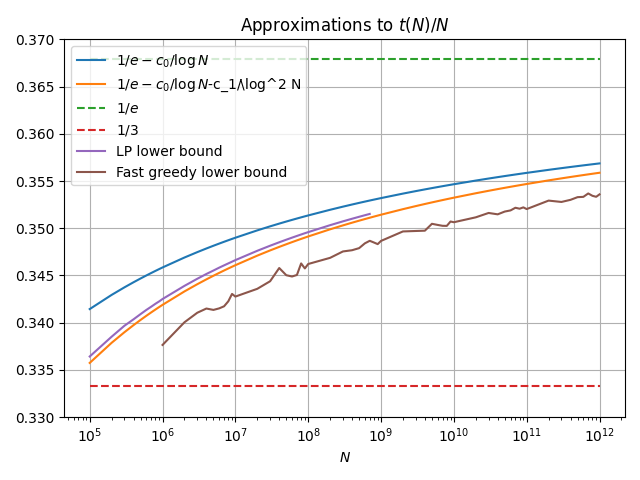
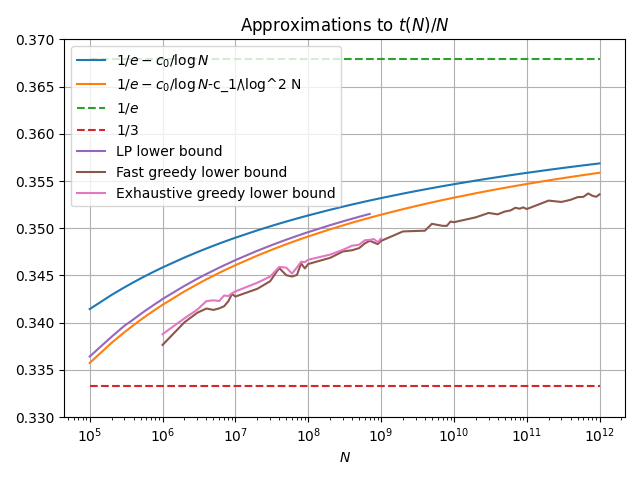
add to graph

diff --git a/src/python/table.py b/src/python/table.py
@@ -230,6 +230,13 @@ def plot():
         base2.append(N)
         t2.append(t / N)
 
+    base3 = []
+    t3 = []
+    for x in data3:
+        N, t, _ = x
+        base3.append(N)
+        t3.append(t / N)
+
 
     # form the union of base1 and base2
     base = sorted(set(base1) | set(base2))
@@ -243,6 +250,7 @@ def plot():
     ax.plot(base, [1/3 for _ in base], linestyle="--", label='$1/3$' )
     ax.plot(base1, t1, label='LP lower bound' )
     ax.plot(base2, t2, label='Fast greedy lower bound' )
+    ax.plot(base3, t3, label='Exhaustive greedy lower bound' )
     ax.set_xscale('log') 
 #    ax.xaxis.set_major_formatter(ScalarFormatter())
 #    ax.ticklabel_format(style='plain', axis='x')            # turn off offset
